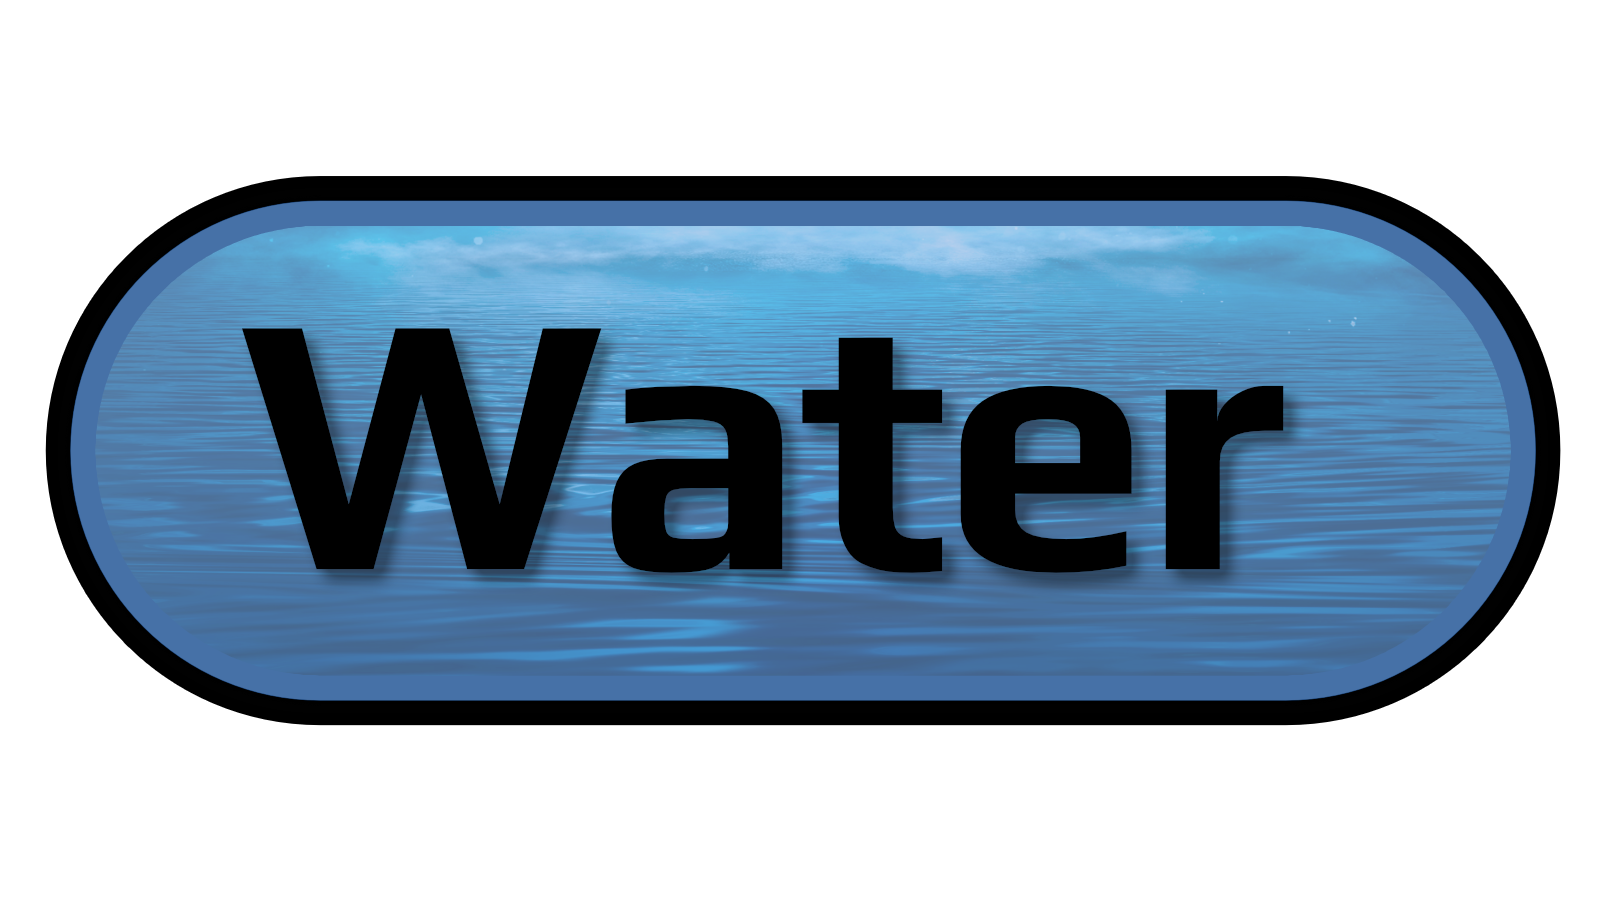
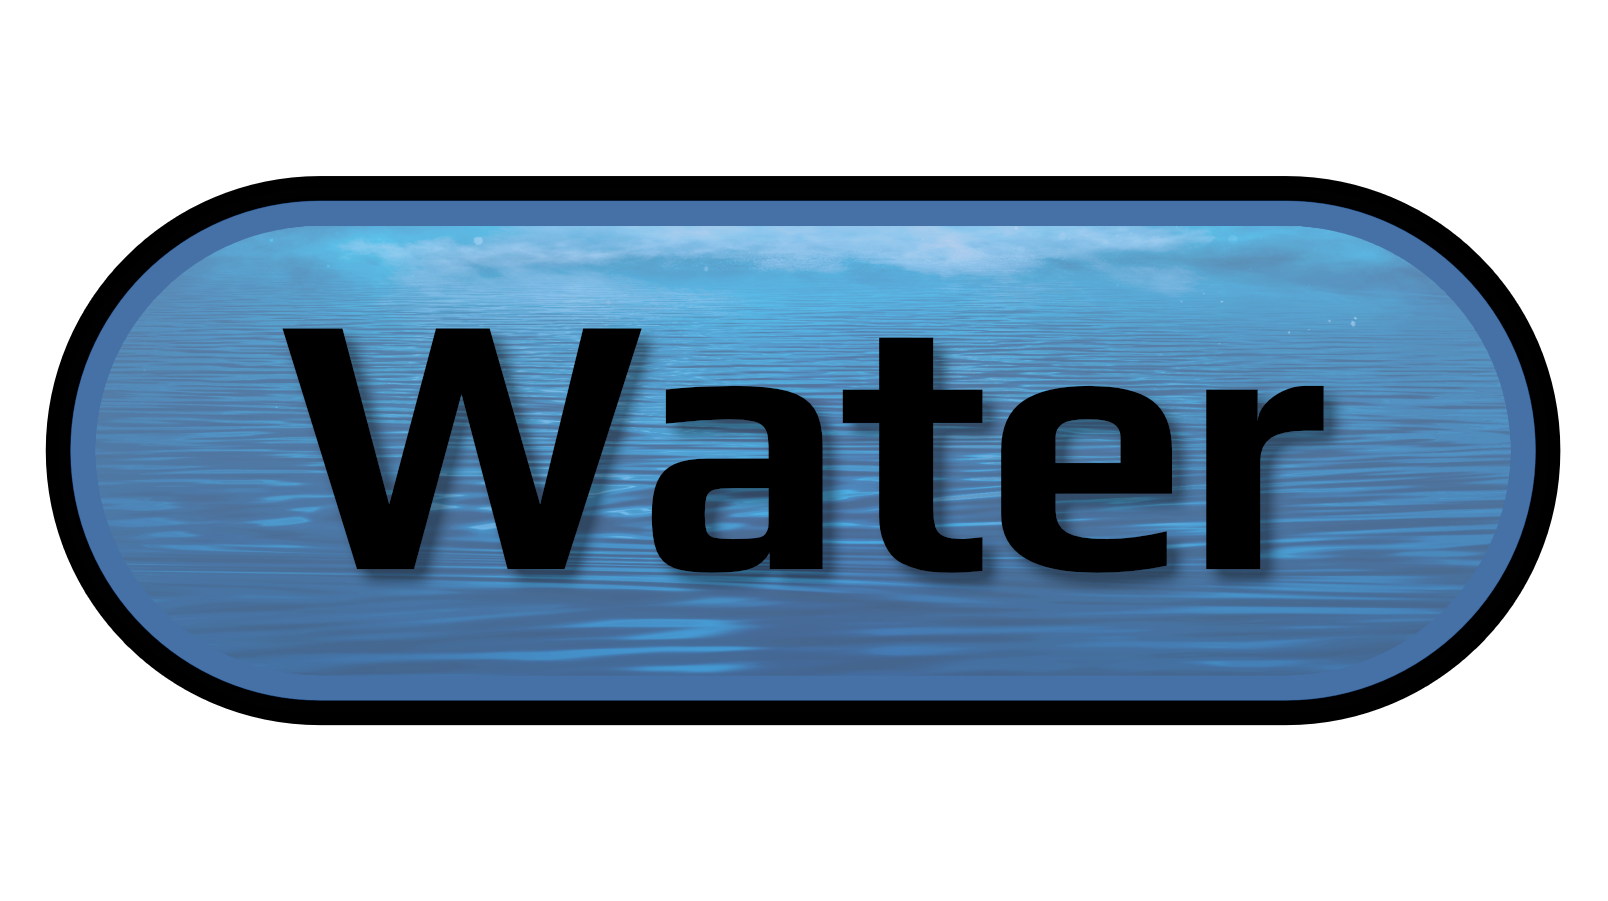
evolution toggle fix
- it is now unified across all species within an evolutionary family

Changed region(s): [[0.1555, 0.3418, 0.8396, 0.6526]]

diff --git a/app/pokedex/firered_leafgreen.js b/app/pokedex/firered_leafgreen.js
@@ -12454,8 +12454,8 @@ const pokedex_frlg = {
         ],
         "weight": 7.5,
         "evolution_family": [
-            {"species": "Omastar", "method": "level", "parameter": 40},
-            {"species": "Omanyte", "method": null, "parameter": null}
+            {"species": "Omanyte", "method": null, "parameter": null},
+            {"species": "Omastar", "method": "level", "parameter": 40}
         ]
     },
     "Omastar": {
@@ -12545,8 +12545,8 @@ const pokedex_frlg = {
         "egg_moves": [],
         "weight": 35.0,
         "evolution_family": [
-            {"species": "Omastar", "method": null, "parameter": null},
-            {"species": "Omanyte", "method": null, "parameter": null}
+            {"species": "Omanyte", "method": null, "parameter": null},
+            {"species": "Omastar", "method": null, "parameter": null}
         ]
     },
     "Kabuto": {
@@ -12641,8 +12641,8 @@ const pokedex_frlg = {
         ],
         "weight": 11.5,
         "evolution_family": [
-            {"species": "Kabutops", "method": "level", "parameter": 40},
-            {"species": "Kabuto", "method": null, "parameter": null}
+            {"species": "Kabuto", "method": null, "parameter": null},
+            {"species": "Kabutops", "method": "level", "parameter": 40}
         ]
     },
     "Kabutops": {
@@ -12740,8 +12740,8 @@ const pokedex_frlg = {
         "egg_moves": [],
         "weight": 40.5,
         "evolution_family": [
-            {"species": "Kabutops", "method": null, "parameter": null},
-            {"species": "Kabuto", "method": null, "parameter": null}
+            {"species": "Kabuto", "method": null, "parameter": null},
+            {"species": "Kabutops", "method": null, "parameter": null}
         ]
     },
     "Aerodactyl": {

diff --git a/app/scripts/frontend.js b/app/scripts/frontend.js
@@ -1433,12 +1433,22 @@ const app = Vue.createApp({
         evolution(newValue) {
             if (this.ready == false) { return }
             const evolution_family = this.game.evolutions[this.starterString]?.evolution_family
+            const family_length = evolution_family.length
             const split_label = `${evolution_family[evolution_family.length - 1]?.species}-line`
+            // console.log(evolution_family)
             if (newValue == true) {
                 this.evolution_splits_label = split_label
             }
             if (newValue == false) {
                 this.evolution_splits_label = ""
+            }
+            for (let i = 0; i < family_length; i++) {
+                MyStorage[evolution_family[i].species] = {
+                    ...MyStorage[evolution_family[i].species],
+                    evolution: newValue,
+                    evolution_splits_label: this.evolution_splits_label
+                };
+                // console.log(MyStorage[evolution_family[i].species])
             }
         },
     },

diff --git a/app/style.css b/app/style.css
@@ -2932,7 +2932,7 @@ body {
     /* border: 1px solid #00ff0d00; */
     background-color: #ffffff;
     font-size: 15px;
-    line-height: 20px;
+    line-height: 18px;
     width: 328px;
     height: 1001px;
     font-family: play;
